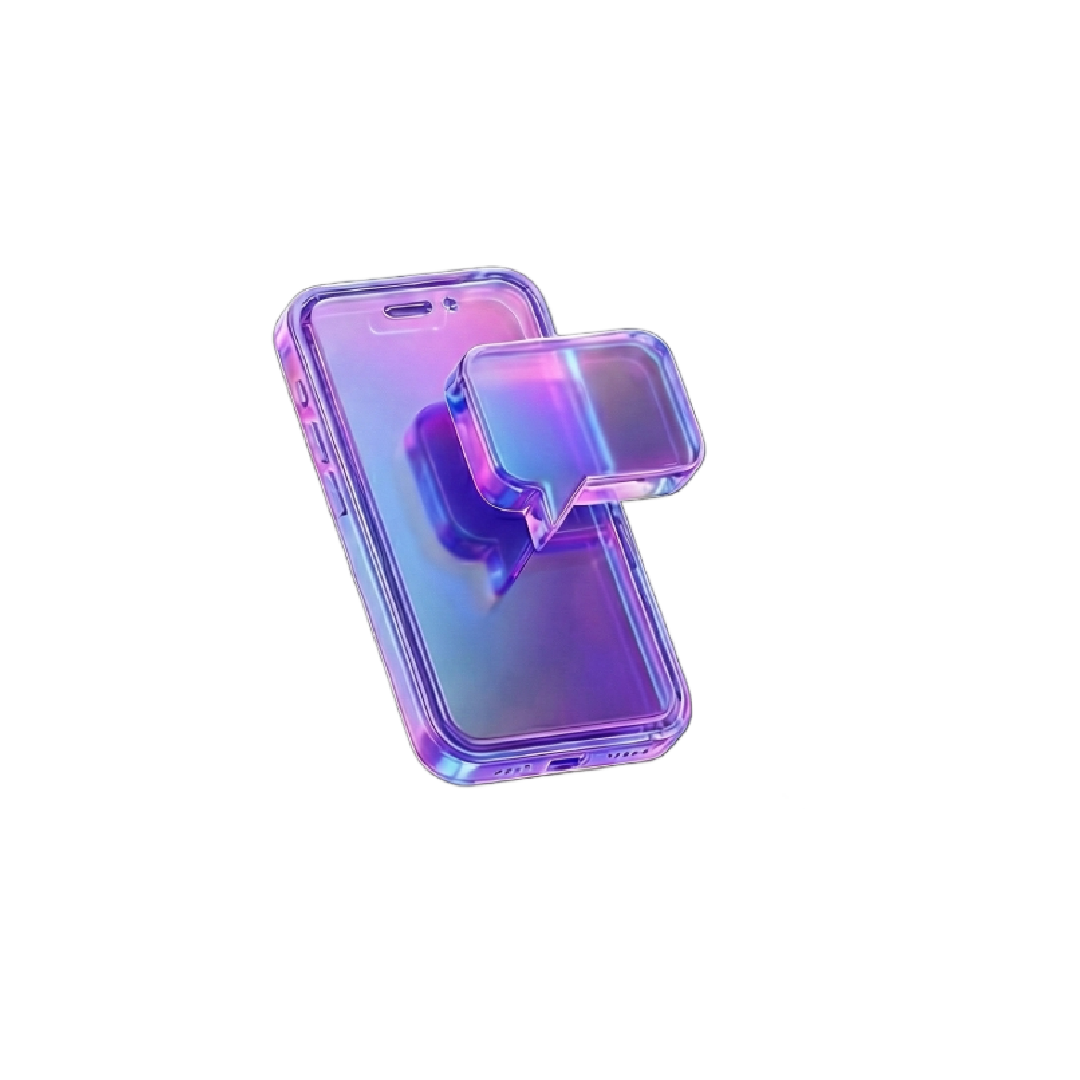
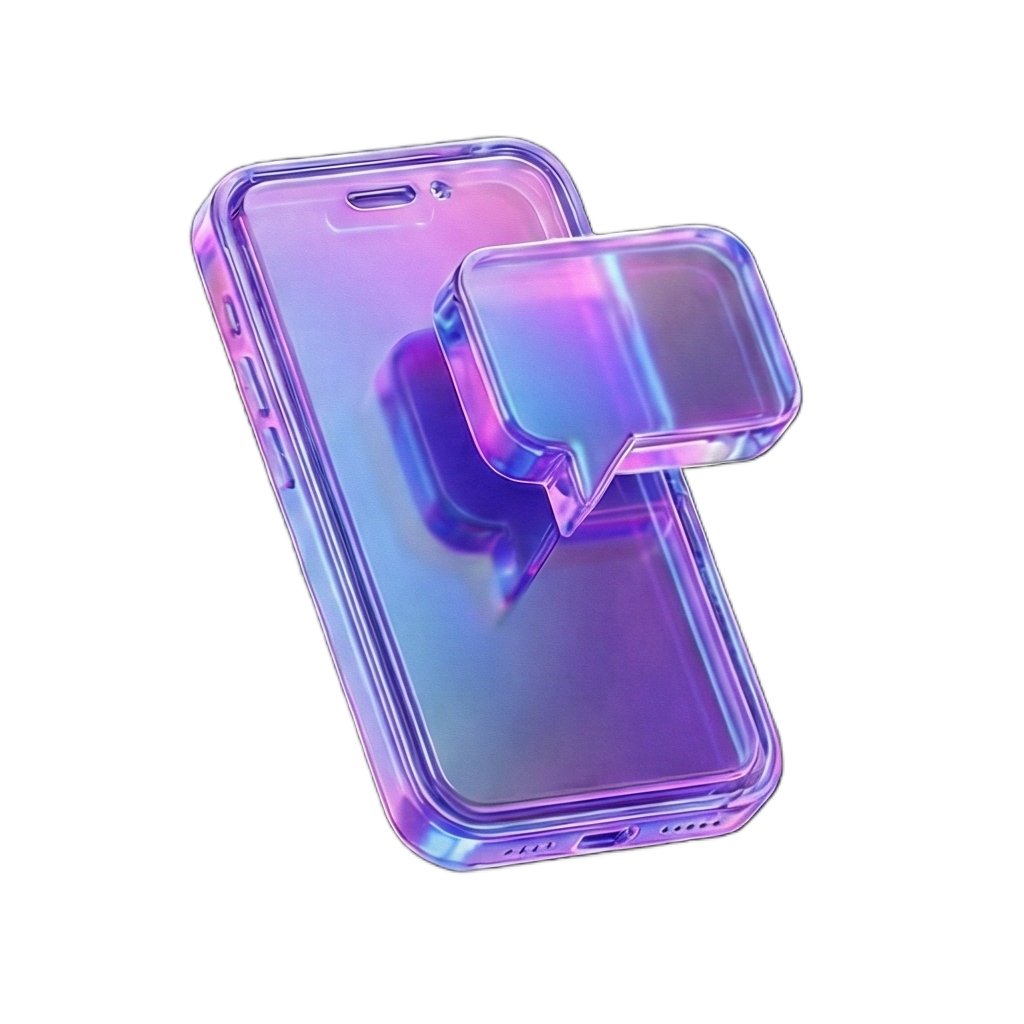
Refactors Features component and ROICalculator
Updates the Features component to use images instead of icons for improved visual appeal.

Removes the Instagram Followers slider from the ROICalculator component, likely due to its irrelevance or lack of impact on ROI calculation.

Changed region(s): [[0.1875, 0.125, 0.7812, 0.875]]

diff --git a/src/components/ROICalculator.jsx b/src/components/ROICalculator.jsx
@@ -31,22 +31,6 @@ const ROICalculator = () => {
 
                         <div className="slider-group">
                             <div className="slider-header group-header">
-                                <label>Instagram Followers</label>
-                                <span className="slider-value">{formatNumber(followers)}</span>
-                            </div>
-                            <input
-                                type="range"
-                                min="1000"
-                                max="100000"
-                                step="1000"
-                                value={followers}
-                                onChange={(e) => setFollowers(Number(e.target.value))}
-                                className="roi-slider"
-                            />
-                        </div>
-
-                        <div className="slider-group">
-                            <div className="slider-header group-header">
                                 <label>Messages / Day</label>
                                 <span className="slider-value">{dmsPerDay}</span>
                             </div>

diff --git a/src/components/Features.jsx b/src/components/Features.jsx
@@ -9,12 +9,12 @@ const features = [
     description: "Don't keep your customers waiting. Our rules engine responds to questions about prices, stock, and schedules in seconds.",
   },
   {
-    icon: <Zap size={24} />,
+    image: '/charts.png',
     title: 'Qualify Leads',
     description: "Automatically identify high-intent buyers and route them to your sales team or checkout page.",
   },
   {
-    icon: <ShoppingCart size={24} />,
+    image: '/cart.png',
     title: 'Recover Carts',
     description: "Send automated follow-ups to customers who abandoned their shopping carts on Instagram and TikTok.",
   },
